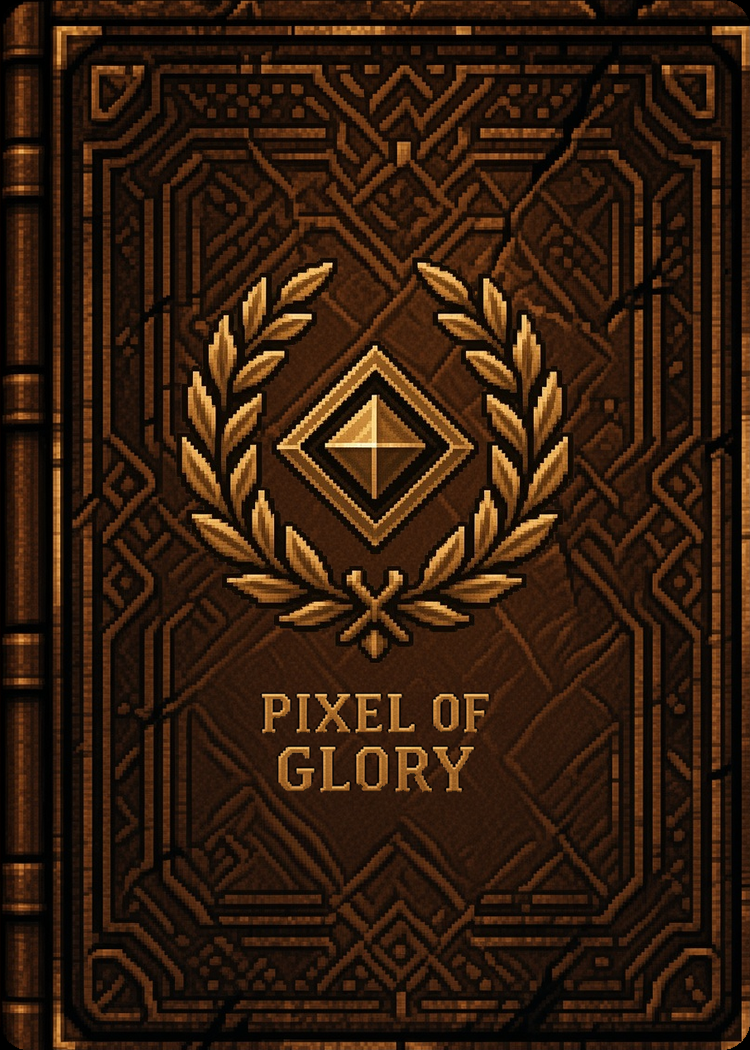
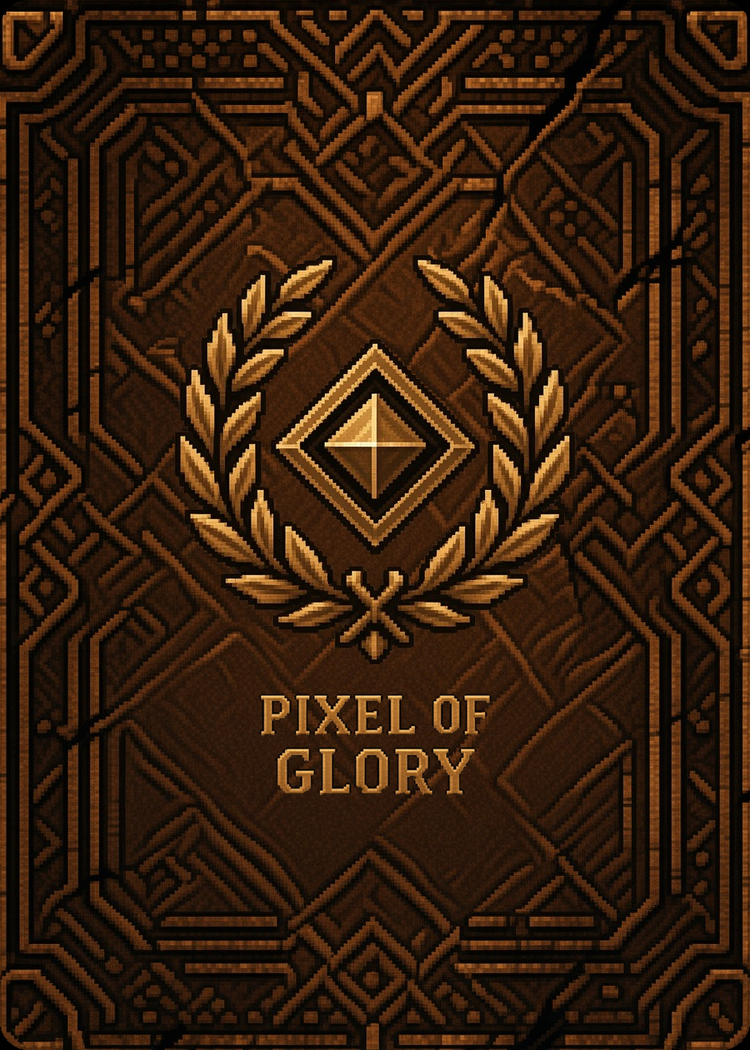
Dos 06 plat (sans tranche) et échelle de l'or en fond perdu réel
Le 06 garde les cadres géométriques cuir brun, sans reliure : dos de carte
normal, motif agrandi. Le fond perdu 820×1120 continue le cadre au lieu
d'une bande noire.

L'échelle de l'or au format fond perdu reprend les mêmes pièces au même
endroit, avec le donjon étendu jusqu'aux bords (plus de noir) et sans le
doublon léger gauche/droite.

diff --git a/DosCartes/apercu.html b/DosCartes/apercu.html
@@ -23,8 +23,9 @@
     Logos extraits des dos Best (<code>01</code>, <code>03</code>, <code>03b</code>,
     <code>03e</code>, <code>07</code>, <code>09</code>, <code>42</code>) :
     tout ce qui n’est pas le logo est transparent. Fonds cuir plat 180°-symétriques
-    (<code>01</code>–<code>05</code>) et fonds <strong>style livre</strong> cuir brun
-    (<code>06</code> ras 750×1050, <code>06_fondperdu</code> 820×1120 avec 3&nbsp;mm de noir).
+    (<code>01</code>–<code>05</code>) et fond <strong>06</strong> à cadres géométriques
+    (dos plat, plus de tranche de livre : <code>06</code> ras 750×1050,
+    <code>06_fondperdu</code> 820×1120 avec 3&nbsp;mm de motif, pas de noir).
     N’importe quel logo se pose sur n’importe quel fond.
   </p>
   <h2>Logos (PNG transparent)</h2>
@@ -43,9 +44,9 @@
 <figure><img src="fonds/03_losanges_bordeaux.png" alt="Nouveau — losanges bordeaux, centre vide"><figcaption>Nouveau — losanges bordeaux, centre vide<br><code>fonds/03_losanges_bordeaux.png</code></figcaption></figure>
 <figure><img src="fonds/04_obsidienne.png" alt="Nouveau — obsidienne, grain cuir"><figcaption>Nouveau — obsidienne, grain cuir<br><code>fonds/04_obsidienne.png</code></figcaption></figure>
 <figure><img src="fonds/05_emeraude.png" alt="Nouveau — émeraude sombre"><figcaption>Nouveau — émeraude sombre<br><code>fonds/05_emeraude.png</code></figcaption></figure></div>
-  <h2>Fonds style livre (tranche + cadre géométrique)</h2>
-  <div class="grid"><figure><img src="fonds/06_livre_brun.png" alt="Livre — cuir brun, ras le livre"><figcaption>Livre — cuir brun, ras le livre<br><code>fonds/06_livre_brun.png</code></figcaption></figure>
-<figure><img src="fonds/06_livre_brun_fondperdu.png" alt="Livre — cuir brun, fond perdu 820×1120"><figcaption>Livre — cuir brun, fond perdu 820×1120<br><code>fonds/06_livre_brun_fondperdu.png</code></figcaption></figure></div>
+  <h2>Fond 06 — dos plat, cadres géométriques</h2>
+  <div class="grid"><figure><img src="fonds/06_livre_brun.png" alt="Cadres cuir brun — dos plat 750×1050"><figcaption>Cadres cuir brun — dos plat 750×1050<br><code>fonds/06_livre_brun.png</code></figcaption></figure>
+<figure><img src="fonds/06_livre_brun_fondperdu.png" alt="Cadres cuir brun — fond perdu 820×1120"><figcaption>Cadres cuir brun — fond perdu 820×1120<br><code>fonds/06_livre_brun_fondperdu.png</code></figcaption></figure></div>
   <h2>Exemples logo + fond</h2>
   <div class="grid"><figure><img src="exemples/mix_03_sur_brun.png" alt="mix_03_sur_brun"><figcaption>mix 03 sur brun</figcaption></figure>
 <figure><img src="exemples/mix_laurier_sur_brun.png" alt="mix_laurier_sur_brun"><figcaption>mix laurier sur brun</figcaption></figure>
@@ -61,11 +62,5 @@
 <figure><img src="exemples/mix_03e_sur_livre_fondperdu.png" alt="mix_03e_sur_livre_fondperdu"><figcaption>mix 03e sur livre fondperdu</figcaption></figure>
 <figure><img src="exemples/mix_03e_90_sur_livre_brun.png" alt="mix_03e_90_sur_livre_brun"><figcaption>mix 03e 90° antihoraire sur livre brun</figcaption></figure>
 <figure><img src="exemples/mix_03e_90_sur_livre_fondperdu.png" alt="mix_03e_90_sur_livre_fondperdu"><figcaption>mix 03e 90° antihoraire sur livre fondperdu</figcaption></figure></div>
-  <h2>Alternatives — logo centré sur le plat (sans la reliure)</h2>
-  <div class="grid">
-<figure><img src="exemples/mix_03e_plat_livre_brun.png" alt="mix_03e_plat_livre_brun"><figcaption>03e centré plat — ras</figcaption></figure>
-<figure><img src="exemples/mix_03e_plat_livre_fondperdu.png" alt="mix_03e_plat_livre_fondperdu"><figcaption>03e centré plat — fond perdu</figcaption></figure>
-<figure><img src="exemples/mix_03e_90_plat_livre_brun.png" alt="mix_03e_90_plat_livre_brun"><figcaption>03e 90° centré plat — ras</figcaption></figure>
-<figure><img src="exemples/mix_03e_90_plat_livre_fondperdu.png" alt="mix_03e_90_plat_livre_fondperdu"><figcaption>03e 90° centré plat — fond perdu</figcaption></figure></div>
 </body>
 </html>

diff --git a/DosCartes/scripts/separer_logos_fonds.py b/DosCartes/scripts/separer_logos_fonds.py
@@ -442,15 +442,16 @@ def write_apercu(logos: list, fonds: list, mixes: list[Path]) -> None:
     Logos extraits des dos Best (<code>01</code>, <code>03</code>, <code>03b</code>,
     <code>03e</code>, <code>07</code>, <code>09</code>, <code>42</code>) :
     tout ce qui n’est pas le logo est transparent. Fonds cuir plat 180°-symétriques
-    (<code>01</code>–<code>05</code>) et fonds <strong>style livre</strong> cuir brun
-    (<code>06</code> ras 750×1050, <code>06_fondperdu</code> 820×1120 avec 3&nbsp;mm de noir).
+    (<code>01</code>–<code>05</code>) et fond <strong>06</strong> à cadres géométriques
+    (dos plat, plus de tranche de livre : <code>06</code> ras 750×1050,
+    <code>06_fondperdu</code> 820×1120 avec 3&nbsp;mm de motif, pas de noir).
     N’importe quel logo se pose sur n’importe quel fond.
   </p>
   <h2>Logos (PNG transparent)</h2>
   <div class="grid wide">{logo_html}</div>
   <h2>Fonds cuir plat (750×1050, sans logo)</h2>
   <div class="grid">{fond_cuir_html}</div>
-  <h2>Fonds style livre (tranche + cadre géométrique)</h2>
+  <h2>Fond 06 — dos plat, cadres géométriques</h2>
   <div class="grid">{fond_livre_html}</div>
   <h2>Exemples logo + fond</h2>
   <div class="grid">{mix_html}</div>
@@ -565,8 +566,8 @@ def main() -> None:
         ("03_losanges_bordeaux", "Nouveau — losanges bordeaux, centre vide"),
         ("04_obsidienne", "Nouveau — obsidienne, grain cuir"),
         ("05_emeraude", "Nouveau — émeraude sombre"),
-        ("06_livre_brun", "Livre — cuir brun, ras le livre"),
-        ("06_livre_brun_fondperdu", "Livre — cuir brun, fond perdu 820×1120"),
+        ("06_livre_brun", "Cadres cuir brun — dos plat 750×1050"),
+        ("06_livre_brun_fondperdu", "Cadres cuir brun — fond perdu 820×1120"),
     ]
     fonds_meta = [(n, c) for n, c in fonds_meta if (FONDS / f"{n}.png").exists()]
     for name, _ in fonds_meta:
@@ -624,28 +625,6 @@ def main() -> None:
         paste_logo_on_fond(Image.open(fp), lg, 0.72).save(p, "PNG", optimize=True)
         mixes.append(p)
 
-    # Alternatives : centre sur le plat, en ignorant la reliure (tranche gauche).
-    spine = 52
-    bleed = 35
-    plat_boxes = {
-        "06_livre_brun": (spine, 0, CARD_W, CARD_H),
-        "06_livre_brun_fondperdu": (bleed + spine, bleed, bleed + CARD_W, bleed + CARD_H),
-    }
-    for fond_name, mix_name, lg in (
-        ("06_livre_brun", "mix_03e_plat_livre_brun", logo_03e),
-        ("06_livre_brun_fondperdu", "mix_03e_plat_livre_fondperdu", logo_03e),
-        ("06_livre_brun", "mix_03e_90_plat_livre_brun", logo_03e_90),
-        ("06_livre_brun_fondperdu", "mix_03e_90_plat_livre_fondperdu", logo_03e_90),
-    ):
-        fp = FONDS / f"{fond_name}.png"
-        if not fp.exists():
-            continue
-        p = exemples / f"{mix_name}.png"
-        paste_logo_in_rect(Image.open(fp), lg, plat_boxes[fond_name], 0.72).save(
-            p, "PNG", optimize=True
-        )
-        mixes.append(p)
-
     write_apercu(logos, fonds_meta, mixes)
     make_planche(
         [(FONDS / f"{n}.png", c.split("—")[0].strip()) for n, c in fonds_meta],
@@ -656,7 +635,7 @@ def main() -> None:
         """# DosCartes — logos et fonds séparés
 
 Tout logo se pose sur tout fond. PNG 8 bits, fonds 750×1050
-(sauf le fond perdu livre : 820×1120).
+(sauf le fond perdu 06 : 820×1120).
 
 ## Logos (`logos/`)
 
@@ -676,7 +655,7 @@ Les `*_apercu.png` sont les mêmes logos sur damier (contrôle du alpha).
 
 ## Fonds (`fonds/`)
 
-Deux familles : cuir plat 180°-symétrique (`01`–`05`) et style livre cuir brun (`06`).
+Deux familles : cuir plat 180°-symétrique (`01`–`05`) et dos plat à cadres géométriques (`06`).
 
 | Fichier | Origine |
 |---|---|
@@ -685,16 +664,16 @@ Deux familles : cuir plat 180°-symétrique (`01`–`05`) et style livre cuir br
 | `03_losanges_bordeaux.png` | nouveau |
 | `04_obsidienne.png` | nouveau |
 | `05_emeraude.png` | nouveau |
-| `06_livre_brun.png` | grimoire cuir brun, ras le livre |
-| `06_livre_brun_fondperdu.png` | même livre + 3 mm (35 px) de noir de chaque côté, 820×1120 |
+| `06_livre_brun.png` | cadres cuir brun, dos plat (plus de tranche) |
+| `06_livre_brun_fondperdu.png` | même motif + 3 mm (35 px) de cadre continu, 820×1120 |
 
-Quatre dos livre + logo 03e (`exemples/`) : droit et 90° antihoraire, ras et fond perdu.
-Alternatives `*_plat_*` : même logo, centré sur le plat (reliure ignorée).
+Quatre dos 06 + logo 03e (`exemples/`) : droit et 90° antihoraire, ras et fond perdu.
 
 Ouvrir `apercu.html` pour tout voir, y compris des exemples logo + fond.
 
 Regénérer les logos et les fonds 01–05 : `python3 DosCartes/scripts/separer_logos_fonds.py`  
-Regénérer les deux fonds livre : `python3 DosCartes/scripts/preparer_livre_brun.py`
+Regénérer les deux fonds 06 : `python3 DosCartes/scripts/preparer_livre_brun.py`  
+Regénérer l’échelle de l’or (racine du dépôt) : `python3 DosCartes/scripts/preparer_echelle_or.py`
 """,
         encoding="utf-8",
     )

diff --git a/DosCartes/scripts/preparer_livre_brun.py b/DosCartes/scripts/preparer_livre_brun.py
@@ -1,12 +1,14 @@
 #!/usr/bin/env python3
-"""Découpe le grimoire cuir brun en deux fonds.
+"""Prépare le fond 06 — dos plat à cadres géométriques.
 
-- 06_livre_brun.png            : ras le livre, 750×1050
-- 06_livre_brun_fondperdu.png  : même carte + 3 mm de noir de chaque côté
-                                 (820×1120)
+- 06_livre_brun.png            : ras 750×1050, coins arrondis
+- 06_livre_brun_fondperdu.png  : même motif agrandi, 820×1120, sans bande noire
+                                 (3 mm / 35 px de cadre qui continue)
 
-Carte poker 63,5 × 88,9 mm → 750×1050 px (~300 dpi) → 3 mm = 35 px.
-Source : scripts/src_livre_brun.jpg
+Plus de tranche de livre : le générateur a refait un dos de carte normal
+à partir des cadres du grimoire.
+
+Source : scripts/src_livre_brun.png (sinon .jpg)
 """
 from __future__ import annotations
 
@@ -17,33 +19,40 @@ from PIL import Image
 from separer_logos_fonds import CARD_H, CARD_W, round_card
 
 ROOT = Path(__file__).resolve().parents[1]
-SRC = Path(__file__).resolve().parent / "src_livre_brun.jpg"
+SCRIPTS = Path(__file__).resolve().parent
 FONDS = ROOT / "fonds"
 
-# Poker 63.5 × 88.9 mm at 750×1050 (~300 dpi)
 BLEED_MM = 3
 BLEED_PX = round(CARD_W * BLEED_MM / 63.5)  # 35
+BLEED_W, BLEED_H = CARD_W + 2 * BLEED_PX, CARD_H + 2 * BLEED_PX
 
-# Bbox du livre seul sur la source 864×1152 (x1/y1 exclus).
-# Hors cadre brun clair et filet or de la carte.
-BOOK_BOX = (23, 29, 833, 1112)
+
+def cover_fit(im: Image.Image, w: int, h: int) -> Image.Image:
+    im = im.convert("RGB")
+    scale = max(w / im.width, h / im.height)
+    nw, nh = int(round(im.width * scale)), int(round(im.height * scale))
+    im = im.resize((nw, nh), Image.Resampling.LANCZOS)
+    x = (nw - w) // 2
+    y = (nh - h) // 2
+    return im.crop((x, y, x + w, y + h))
+
+
+def load_src() -> Image.Image:
+    for name in ("src_livre_brun.png", "src_livre_brun.jpg"):
+        p = SCRIPTS / name
+        if p.exists():
+            return Image.open(p).convert("RGB")
+    raise FileNotFoundError("src_livre_brun.png / .jpg manquant")
 
 
 def main() -> None:
     FONDS.mkdir(parents=True, exist_ok=True)
-    src = Image.open(SRC).convert("RGB")
-    book = src.crop(BOOK_BOX)
-
-    ras = round_card(book.resize((CARD_W, CARD_H), Image.Resampling.LANCZOS))
+    bleed = cover_fit(load_src(), BLEED_W, BLEED_H)
+    ras = round_card(bleed.crop((BLEED_PX, BLEED_PX, BLEED_PX + CARD_W, BLEED_PX + CARD_H)))
     ras.save(FONDS / "06_livre_brun.png", "PNG", optimize=True)
-
-    bleed_w = CARD_W + 2 * BLEED_PX
-    bleed_h = CARD_H + 2 * BLEED_PX
-    canvas = Image.new("RGB", (bleed_w, bleed_h), (0, 0, 0))
-    canvas.paste(ras, (BLEED_PX, BLEED_PX))
-    canvas.save(FONDS / "06_livre_brun_fondperdu.png", "PNG", optimize=True)
-    print("livre ras", CARD_W, CARD_H)
-    print("livre fond perdu", bleed_w, bleed_h, f"({BLEED_PX} px = {BLEED_MM} mm)")
+    bleed.save(FONDS / "06_livre_brun_fondperdu.png", "PNG", optimize=True)
+    print("06 ras", CARD_W, CARD_H)
+    print("06 fond perdu", BLEED_W, BLEED_H, f"({BLEED_PX} px = {BLEED_MM} mm, motif continu)")
 
 
 if __name__ == "__main__":

diff --git a/DosCartes/scripts/preparer_echelle_or.py b/DosCartes/scripts/preparer_echelle_or.py
@@ -1,0 +1,76 @@
+#!/usr/bin/env python3
+"""Prépare EchelleOr.png (750×1050) et EchelleOr_fondperdu.png (820×1120).
+
+Le fond perdu n’est plus la carte collée sur du noir : le donjon continue
+sur les 3 mm. Les pièces d’or du trim d’origine restent à la même place.
+Les bandes gauche/droite recopiées (~15–30 px) sont remplacées par du
+décor unique, pour éviter le doublon.
+
+Sources :
+- src_echelle_or_etendu.jpg  : donjon étendu (généré)
+- src_echelle_or_trim.png    : trim d’origine, pour verrouiller l’échelle
+Sortie : racine du dépôt.
+"""
+from __future__ import annotations
+
+from pathlib import Path
+
+import cv2
+import numpy as np
+from PIL import Image
+
+from separer_logos_fonds import CARD_H, CARD_W
+
+SCRIPTS = Path(__file__).resolve().parent
+REPO = SCRIPTS.parents[1]
+
+BLEED_MM = 3
+BLEED_PX = round(CARD_W * BLEED_MM / 63.5)  # 35
+BLEED_W, BLEED_H = CARD_W + 2 * BLEED_PX, CARD_H + 2 * BLEED_PX
+EDGE = 32  # largeur des bandes doublées à jeter sur le trim d’origine
+
+
+def cover_fit(im: Image.Image, w: int, h: int) -> Image.Image:
+    im = im.convert("RGB")
+    scale = max(w / im.width, h / im.height)
+    nw, nh = int(round(im.width * scale)), int(round(im.height * scale))
+    im = im.resize((nw, nh), Image.Resampling.LANCZOS)
+    x = (nw - w) // 2
+    y = (nh - h) // 2
+    return im.crop((x, y, x + w, y + h))
+
+
+def compose(etendu: Image.Image, trim: Image.Image) -> Image.Image:
+    bg = np.array(cover_fit(etendu, BLEED_W, BLEED_H))
+    orig = np.array(trim.convert("RGB"))
+    if orig.shape[1] != CARD_W or orig.shape[0] != CARD_H:
+        orig = np.array(trim.convert("RGB").resize((CARD_W, CARD_H), Image.Resampling.LANCZOS))
+    mask = np.ones((CARD_H, CARD_W), np.float32)
+    mask[:, :EDGE] = 0.0
+    mask[:, CARD_W - EDGE :] = 0.0
+    yy, xx = np.ogrid[:CARD_H, :CARD_W]
+    for cx, cy in ((0, 0), (CARD_W - 1, 0), (0, CARD_H - 1), (CARD_W - 1, CARD_H - 1)):
+        dist = np.sqrt((xx - cx) ** 2 + (yy - cy) ** 2)
+        mask = np.minimum(mask, np.clip((dist - 12) / 28.0, 0, 1))
+    mask = cv2.GaussianBlur(mask, (25, 25), 0)
+    roi = bg[BLEED_PX : BLEED_PX + CARD_H, BLEED_PX : BLEED_PX + CARD_W].astype(np.float32)
+    blended = orig.astype(np.float32) * mask[..., None] + roi * (1.0 - mask[..., None])
+    bg[BLEED_PX : BLEED_PX + CARD_H, BLEED_PX : BLEED_PX + CARD_W] = np.clip(
+        blended, 0, 255
+    ).astype(np.uint8)
+    return Image.fromarray(bg)
+
+
+def main() -> None:
+    etendu = Image.open(SCRIPTS / "src_echelle_or_etendu.jpg")
+    trim = Image.open(SCRIPTS / "src_echelle_or_trim.png")
+    fondperdu = compose(etendu, trim)
+    ras = fondperdu.crop((BLEED_PX, BLEED_PX, BLEED_PX + CARD_W, BLEED_PX + CARD_H))
+    ras.save(REPO / "EchelleOr.png", "PNG", optimize=True)
+    fondperdu.save(REPO / "EchelleOr_fondperdu.png", "PNG", optimize=True)
+    print("echelle ras", CARD_W, CARD_H)
+    print("echelle fond perdu", BLEED_W, BLEED_H, f"({BLEED_PX} px = {BLEED_MM} mm, donjon continu)")
+
+
+if __name__ == "__main__":
+    main()

diff --git a/DosCartes/README.md b/DosCartes/README.md
@@ -1,7 +1,7 @@
 # DosCartes — logos et fonds séparés
 
 Tout logo se pose sur tout fond. PNG 8 bits, fonds 750×1050
-(sauf le fond perdu livre : 820×1120).
+(sauf le fond perdu 06 : 820×1120).
 
 ## Logos (`logos/`)
 
@@ -21,7 +21,7 @@ Les `*_apercu.png` sont les mêmes logos sur damier (contrôle du alpha).
 
 ## Fonds (`fonds/`)
 
-Deux familles : cuir plat 180°-symétrique (`01`–`05`) et style livre cuir brun (`06`).
+Deux familles : cuir plat 180°-symétrique (`01`–`05`) et dos plat à cadres géométriques (`06`).
 
 | Fichier | Origine |
 |---|---|
@@ -30,13 +30,13 @@ Deux familles : cuir plat 180°-symétrique (`01`–`05`) et style livre cuir br
 | `03_losanges_bordeaux.png` | nouveau |
 | `04_obsidienne.png` | nouveau |
 | `05_emeraude.png` | nouveau |
-| `06_livre_brun.png` | grimoire cuir brun, ras le livre |
-| `06_livre_brun_fondperdu.png` | même livre + 3 mm (35 px) de noir de chaque côté, 820×1120 |
+| `06_livre_brun.png` | cadres cuir brun, dos plat (plus de tranche) |
+| `06_livre_brun_fondperdu.png` | même motif + 3 mm (35 px) de cadre continu, 820×1120 |
 
-Quatre dos livre + logo 03e (`exemples/`) : droit et 90° antihoraire, ras et fond perdu.
-Alternatives `*_plat_*` : même logo, centré sur le plat (reliure ignorée).
+Quatre dos 06 + logo 03e (`exemples/`) : droit et 90° antihoraire, ras et fond perdu.
 
 Ouvrir `apercu.html` pour tout voir, y compris des exemples logo + fond.
 
 Regénérer les logos et les fonds 01–05 : `python3 DosCartes/scripts/separer_logos_fonds.py`  
-Regénérer les deux fonds livre : `python3 DosCartes/scripts/preparer_livre_brun.py`
+Regénérer les deux fonds 06 : `python3 DosCartes/scripts/preparer_livre_brun.py`  
+Regénérer l’échelle de l’or (racine du dépôt) : `python3 DosCartes/scripts/preparer_echelle_or.py`
